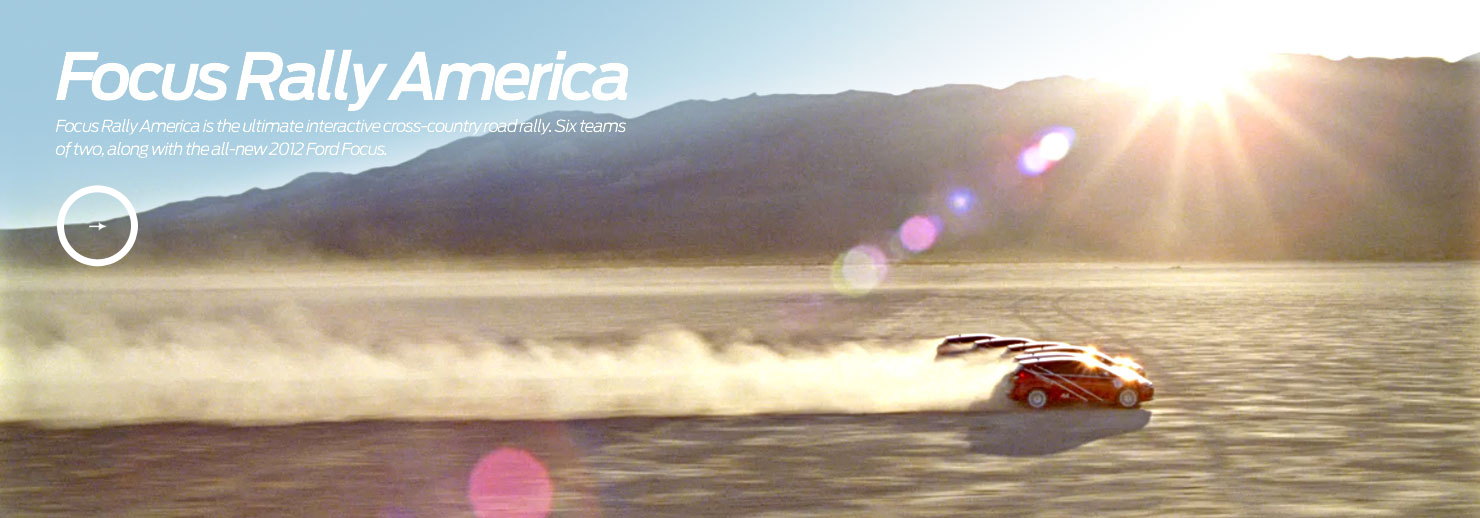
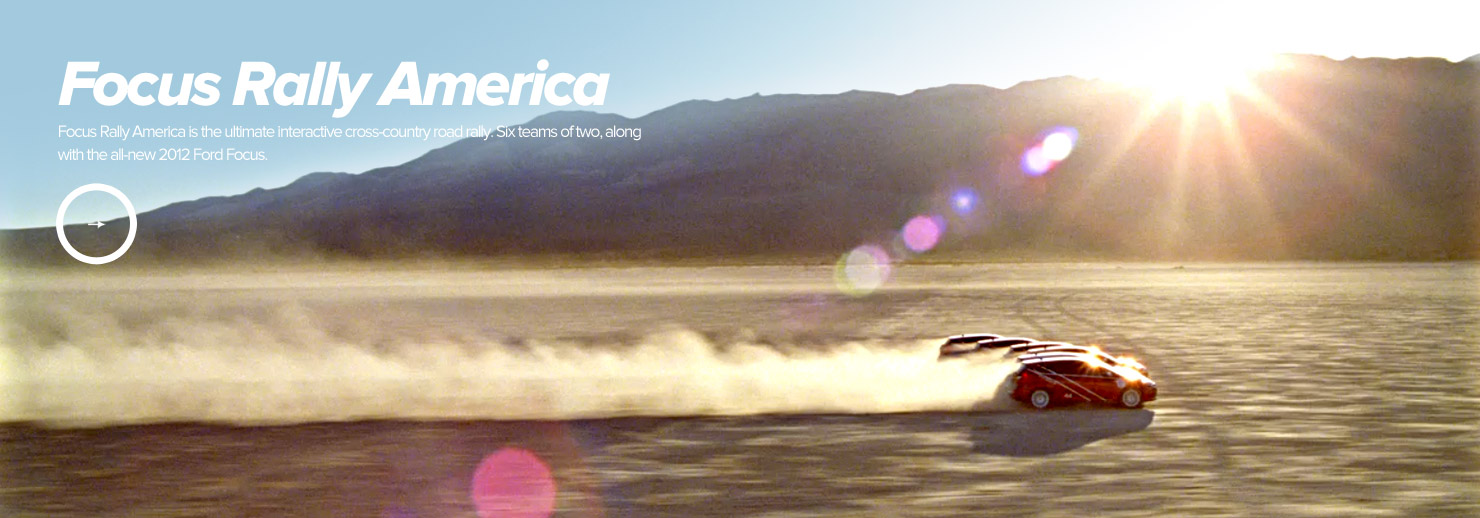
.

diff --git a/index.php b/index.php
@@ -69,8 +69,7 @@
 	<?php include 'header.php'; ?>
 
 	<section class="billboard">
-		<div class="center min-max">
-			
+		<div class="center min-max">	
 			<div class="">
 				<div id="container">
 
@@ -90,38 +89,7 @@
 				    	</li>
 				    </ul>
 				  </div>
-
 				</div>
-				<!-- <ul>
-									<li id="billboard_1">
-										<img src="_/img/home/billboard_1.png" alt="">
-										<a class="active" href="#billboard_1">&middot;</a>
-										<a href="#billboard_2">&middot;</a>
-										<a href="#billboard_3">&middot;</a>
-										<a href="#billboard_4">&middot;</a>
-									</li>
-									<li id="billboard_2">
-										<img src="_/img/home/billboard.png" alt="">
-										<a href="#billboard_1">&middot;</a>
-										<a href="#billboard_2">&middot;</a>
-										<a href="#billboard_3">&middot;</a>
-										<a href="#billboard_4">&middot;</a>
-									</li>
-									<li id="billboard_3">
-										<img src="_/img/home/billboard-FocusRally.jpg" alt="">
-										<a href="#billboard_1">&middot;</a>
-										<a href="#billboard_2">&middot;</a>
-										<a href="#billboard_3">&middot;</a>
-										<a href="#billboard_4">&middot;</a>
-									</li>
-									<li id="billboard_4">
-										<img src="_/img/home/billboard-CCS.jpg" alt="">
-										<a href="#billboard_1">&middot;</a>
-										<a href="#billboard_2">&middot;</a>
-										<a href="#billboard_3">&middot;</a>
-										<a href="#billboard_4">&middot;</a>
-									</li>
-								</ul> -->
 			</div>
 
 		</div>
@@ -238,12 +206,13 @@
 					<a href="#">
 						<p>&ldquo;Team Detroit is No. 10 on the Ad Agency A-List.&rdquo;</p>
 						<div class="news-aa news"></div>
+
 					</a>
 				</li>
 			</ul>
 
 		</div>
-
+		<p>&amp;</p>
 	</section>
 
 	<div class="headline-wrapper">
